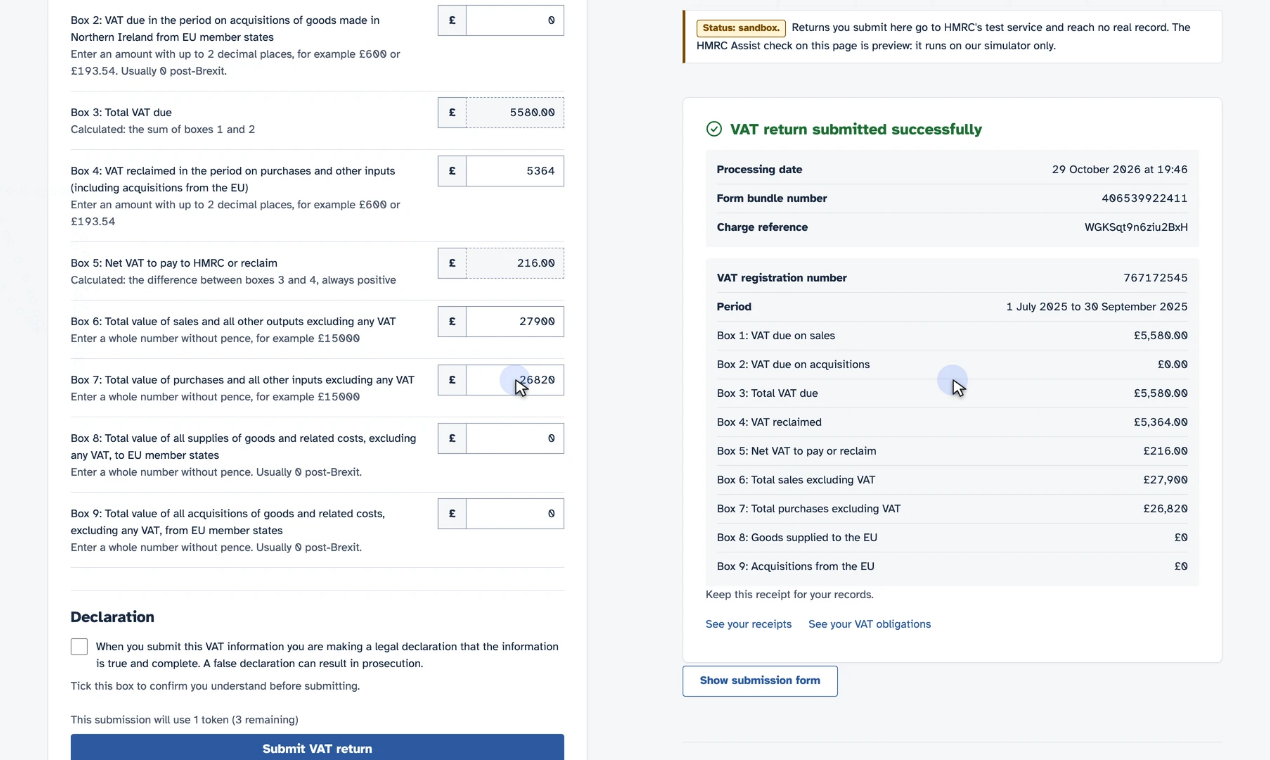
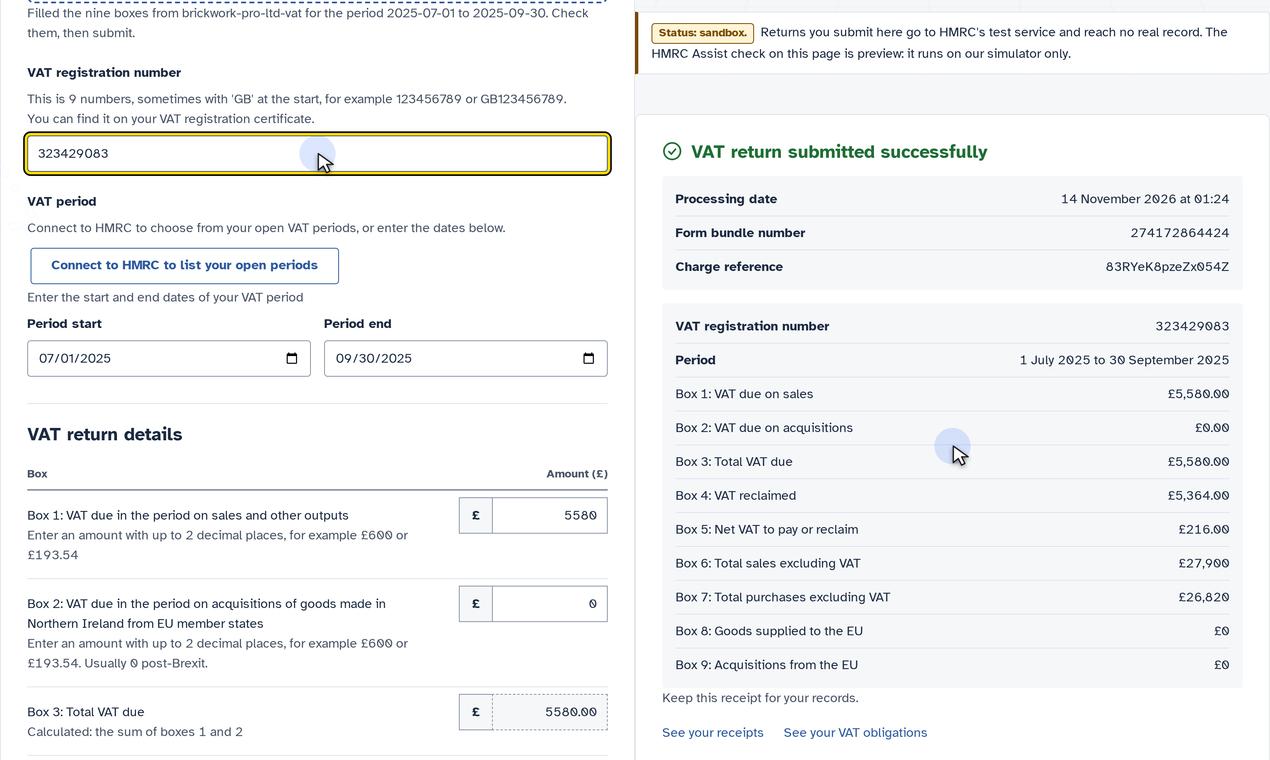
OS30. The launch pack states the recording's length and takes gallery image 3 from it
The ci capture of the hand-off script (video-capture.yml run 43539969800)
is 73.6 seconds. The README and the Product Hunt text say 74 seconds, the
"Images to retake" section goes, and the walk says that sign-in, the day
pass and the HMRC grant run off camera.

Gallery image 3 is cut from that recording's stills: the VAT form with the
VAT number typed in and boxes 1 to 3 filled, and the receipt from HMRC's
test service with its sandbox banner.

Claude-Model: claude-sonnet-5-5
Claude-Session: https://claude.ai/code/session_01GFg5yRoELaQkhVhbRr5rZ9

diff --git a/web/marketing/launch/README.md b/web/marketing/launch/README.md
@@ -14,13 +14,9 @@ The text, images and recording for the day the connector reaches the first direc
 | `ai-directories.md` | There's An AI For That, Futurepedia, Toolify |
 | `devto.md` | dev.to post, with front matter |
 | `images/` | gallery and cover images |
-| `videos/assistant-vat-handoff.json` (repository root) | scene script of the 60-second recording |
+| `videos/assistant-vat-handoff.json` (repository root) | scene script of the 74-second recording |
 
 Product name, descriptions and price text come from the register's `submit` product in `web/marketing/marketing.toml`, read through `scripts/listings-register.mjs`. The price text is `£9.99/yr / £0.99/mo`, from `web/public/submit.catalogue.toml`.
-
-## Images to retake
-
-Retake `images/gallery-3-form-and-receipt.png` from the frames of the ci recording of `assistant-vat-handoff`. It now shows a sandbox receipt from the guide screenshots and the page says so.
 
 ## Limits, read on 2026-11-13
 
@@ -62,17 +58,17 @@ All are Playwright screenshots (Chromium, light scheme) at the stated size, made
 | --- | --- | --- |
 | `images/gallery-1-connector-page.png` | 1270x760 | https://submit.diyaccounting.co.uk/mcp.html on prod, 2026-11-13 |
 | `images/gallery-2-home.png` | 1270x760 | https://submit.diyaccounting.co.uk/ on prod, 2026-11-13 |
-| `images/gallery-3-form-and-receipt.png` | 1270x760 | guide screenshots `web/public/videos/vat-from-books/import-book-7.webp` and `receipt.webp`, each cropped to 635x760 from the top, side by side; the receipt is a sandbox one and the page says so |
+| `images/gallery-3-form-and-receipt.png` | 1270x760 | frames of the ci recording of `assistant-vat-handoff` (capture run 43539969800), each cropped to 635x760 and placed side by side: the VAT form with the VAT number typed in and boxes 1 to 3 filled, and the receipt; the receipt is from HMRC's test service and the page says so |
 | `images/devto-cover.png` | 1000x420 | https://submit.diyaccounting.co.uk/mcp.html on prod, 2026-11-13 |
 
 The directories state no image size, so they use the three gallery images.
 
-## The 60-second recording
+## The 74-second recording
 
-`videos/assistant-vat-handoff.json` follows the walk in `behaviour-tests/mcpPrepareVatReturn.behaviour.test.js`: the connector page, sign-in and day pass, the hand-off link that fills the VAT form, the declaration, the filing to HMRC's test service and the receipt. The link in the `handoff` scene carries the figures of the fixture book `mcp/test/fixtures/brickwork-pro-ltd-vat` for the quarter ending 2025-09-30. Record it on a ci deployment:
+`videos/assistant-vat-handoff.json` follows the walk in `behaviour-tests/mcpPrepareVatReturn.behaviour.test.js`. Sign-in, the day pass and the HMRC grant run off camera. The recording shows the connector page, the hand-off link that fills the VAT form, the declaration, the submit and the receipt from HMRC's test service. The link in the `handoff` scene carries the figures of the fixture book `mcp/test/fixtures/brickwork-pro-ltd-vat` for the quarter ending 2025-09-30. Record it on a ci deployment:
 
 ```bash
 npm run video:record -- assistant-vat-handoff ci
 ```
 
-The length is unmeasured. Publish the video after `prepare_vat_return` is on prod, because it shows the hand-off.
+The length is 73.6 seconds, measured on capture run 43539969800. Publish the video after `prepare_vat_return` is on prod, because it shows the hand-off.

diff --git a/web/marketing/launch/product-hunt.md b/web/marketing/launch/product-hunt.md
@@ -22,7 +22,7 @@ DIY Accounting Submit sends your VAT return to HMRC under Making Tax Digital. Ty
 - Website: https://submit.diyaccounting.co.uk/
 - Logo: `web/marketing/images/submit-all/square.png` (the register's `logo`)
 - Gallery, in this order: `images/gallery-1-connector-page.png`, `images/gallery-2-home.png`, `images/gallery-3-form-and-receipt.png`
-- Video: the 60-second recording from `videos/assistant-vat-handoff.json`, after the operator has watched it.
+- Video: the 74-second recording from `videos/assistant-vat-handoff.json`, after the operator has watched it.
 
 ## First comment (the maker's)
 
